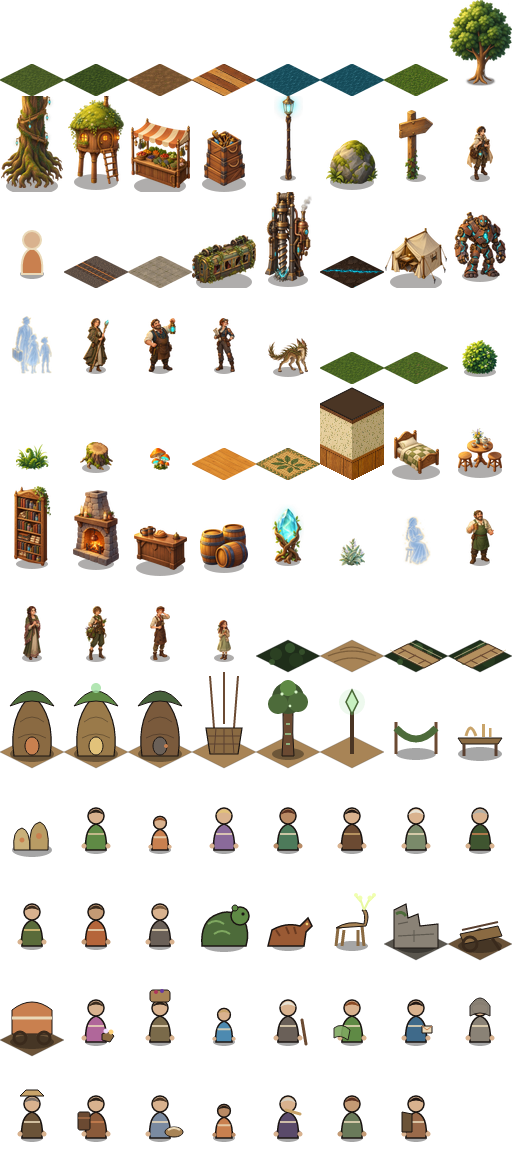
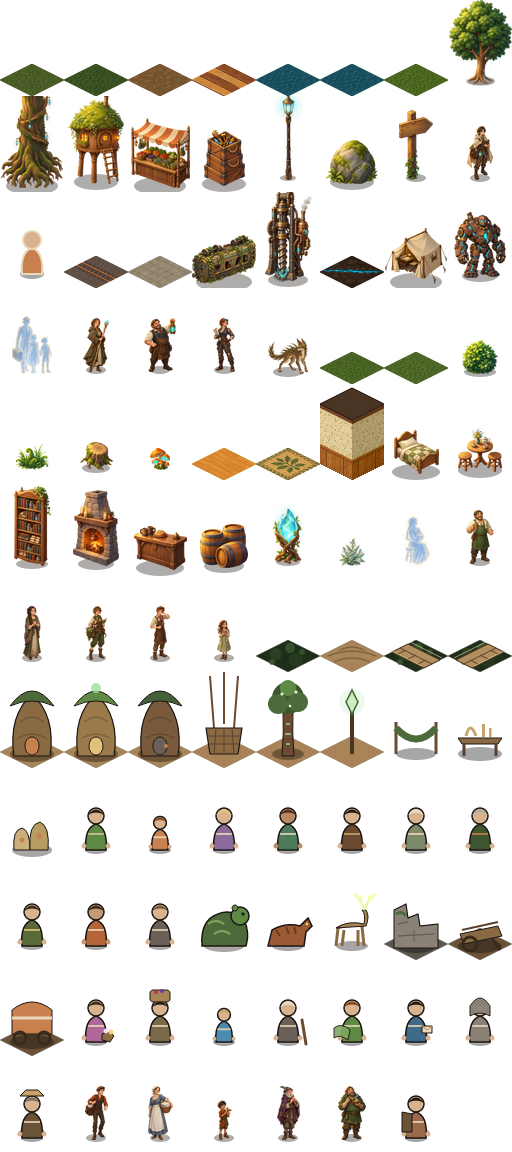
Passants de Gardebois peints : 5 personnages, 2 qui marchent animés
Cinq personnages en pied (commis de Ferros, garçon curieux, lavandière, joueur de
pipeau, client de la Racine) et les planches de marche des deux qui marchent
(méthode 2D validée), 7,5 crédits au total. Outil de marche : option de taille
(42 px pour l'enfant). Test : chaque planche de figurant existe. 270 tests.

Claude-Session: https://claude.ai/code/session_01SqW3qFHixh5S4ufZhtH5kU

diff --git a/src/engine/figurants.test.ts b/src/engine/figurants.test.ts
@@ -59,6 +59,14 @@ describe('figurants', () => {
     }
   });
 
+  it('point their painted walk sheets to files in public/ (docs/ASSETS.md)', () => {
+    const files = Object.keys(import.meta.glob('/public/sprites/*'));
+    for (const f of FIGURANTS.filter((x) => x.walk)) {
+      expect(files, f.id).toContain(`/public/${f.walk}`);
+      expect(isStanding(f), f.id).toBe(false);
+    }
+  });
+
   it('fill Gardebois and the three quarters of Canopéa', () => {
     for (const id of ['gardebois', 'canopee-nacelle', 'canopee-ramures', 'canopee-aieux']) {
       expect(figurantsAt(id).length, id).toBeGreaterThanOrEqual(2);

diff --git a/docs/ASSETS.md b/docs/ASSETS.md
@@ -311,7 +311,7 @@ d'un bloc de case, inclinées le long de ses arêtes, la face droite à l'ombre,
 **À trancher par Cyril** : Sylvan est sorti avec des oreilles pointues. Les elfes de Verdantis sont une contradiction
 ouverte du canon (`docs/univers/zones-floues.md`, point 2) ; le refaire en humain coûterait 2 crédits.
 
-## Passants de Gardebois (2026-11-02, 5 images, 2,5 crédits, solde 16,5) — **en attente de téléchargement**
+## Passants de Gardebois (2026-11-02, 15 images, 7,5 crédits, solde 11,5)
 
 Plan validé par Cyril le 2026-11-02 (« Oui, pas bête ») : peindre les cinq passants de Gardebois
 (`docs/gdd/figurants.md`) : 5 personnages en pied (2,5 crédits), puis les planches de marche des deux qui marchent
@@ -327,8 +327,18 @@ Plan validé par Cyril le 2026-11-02 (« Oui, pas bête ») : peindre les cinq p
 | `joueur-pipeau.png` | `joueur-pipeau` | « an old street musician of a forest village, short white beard, patched plum-purple cloak, a small soft hat with a green feather, playing a little wooden pipe flute held in both hands, gentle twinkling eyes » | `92e9308e-231a-44c2-9071-4351a0a9f4f4` | 0,5 |
 | `client.png` | `client` | « a sleepy, content inn patron of a forest village, plump middle-aged man, mossy green tunic and brown trousers, holding a steaming wooden bowl of soup and a wooden spoon, eyes half closed, peaceful smile » | `de4b76f0-dafd-40ab-bdc3-f15ef84e78f2` | 0,5 |
 
-**Blocage** : la session cloud ne peut pas télécharger les images (l'hôte `d8j0ntlcm91z4.cloudfront.net`, où Higgsfield
-les dépose, est refusé par la politique réseau de l'environnement). Les planches de marche (5 crédits) attendent
-que l'hôte soit autorisé, pour vérifier les personnages avant de payer la suite. Code prêt : tuiles déclarées avec
-`art` (`withArt` dans `scripts/tiles-def.mjs`), planches de marche des figurants (`walk` dans
-`src/data/figurants.json`, `FigurantLayer`).
+Téléchargement d'abord bloqué : l'hôte des images Higgsfield (`d8j0ntlcm91z4.cloudfront.net`) était refusé par le
+réseau de la session cloud ; Cyril a ouvert l'accès réseau de l'environnement (« Complet ») le 2026-11-02. Les cinq
+personnages, montrés à Cyril, lui plaisent ; tous gardés au premier essai.
+
+| Planches de marche (`assets/raw/anim2d/<nom>/{s,se,e,ne,n}.png`) | Réglages | Prompt | Coût |
+|---|---|---|---|
+| `commis-ferros` (5 directions) | moyenne, transparent, 21:9, le commis en pied en référence (`image_references`) | Prompt de la méthode 2D (`docs/gdd/animation.md`), tenue résumée entre parenthèses (casquette, gilet, chemise rouille, sacoche de papiers), « legs, arms and satchel moving » | 2,5 |
+| `garcon-curieux` (5 directions) | idem, le garçon en pied en référence | idem (cheveux en bataille, tunique rouille, ceinture verte, dragon de bois dans les mains), « legs, arms and sash moving » | 2,5 |
+
+Deux demandes refusées à l'envoi par Higgsfield (limite de débit, 429), sans tâche créée ni débit, relancées aussitôt.
+
+**Résultats** : `assets/tiles/{colporteur-ferros,enfant-b,lavandiere,joueur-pipeau,client}.png` (tuiles, `npm run art`) ;
+`public/sprites/figurant-commis-ferros.png` et `figurant-garcon-curieux.png` (8 directions × 6 images,
+`npm run walk -- 2d anim2d/<nom> figurant-<nom> [hauteur]` ; le garçon à 42 px au lieu de 54, c'est un enfant).
+Vérifié dans le jeu : les deux marcheurs animés dans Gardebois, les trois autres immobiles, bulle du client.

diff --git a/docs/JOURNAL.md b/docs/JOURNAL.md
@@ -3,7 +3,7 @@
 ## État (2026-11-02)
 
 - **Jalon 1 clos** (validé le 2026-11-01). **Jalon 2** fait et en ligne : avatars, marche 2D, combat sur grille,
-  4 intérieurs, 5 PNJ, 3 quêtes (`docs/gdd/jalon-2.md`). 16,5 crédits Higgsfield restants.
+  4 intérieurs, 5 PNJ, 3 quêtes (`docs/gdd/jalon-2.md`). 11,5 crédits Higgsfield restants.
 - 269 tests, typecheck et build au vert. En ligne : https://csaintecluque-ui.github.io/anamnesis-rpg/
 - Mode test caché : 5 touches sur la version (écran titre) → +50 Fers, PV au max dans le menu pause.
 
@@ -16,8 +16,8 @@
 
 ## Prochaine étape
 
-1. En ligne : 14 passants (`docs/gdd/figurants.md`). Peinture de ceux de Gardebois **bloquée** (2,5 crédits sur 7,5) :
-   l'hôte des images Higgsfield `d8j0ntlcm91z4.cloudfront.net` est refusé par le réseau de la session cloud.
+1. En ligne : 14 passants (`docs/gdd/figurants.md`), ceux de Gardebois peints (les deux qui marchent sont animés).
+   Accès réseau de l'environnement passé en « Complet » par Cyril (images Higgsfield).
 2. Ensuite : réputation par ville, puis Ironheart ; les quêtes des villes après.
 
 ## Points ouverts

diff --git a/docs/archive/journal-2026-11.md b/docs/archive/journal-2026-11.md
@@ -672,3 +672,7 @@ Le passage au jalon suivant attend le feu vert de Cyril (`CLAUDE.md` §4).
   passants de Gardebois accordée. Cinq personnages en pied générés (2,5 crédits, solde 16,5) ; téléchargement
   impossible depuis la session cloud (hôte des images Higgsfield refusé par le réseau) : planches de marche en attente.
   Code prêt : `withArt` (tuiles), `walk` (planche de marche d'un figurant), testé avec une planche d'avatar.
+- Cyril ouvre l'accès réseau de l'environnement (« Complet », depuis Safari : flèche du titre de session, « Modifier
+  l'environnement cloud »). Les cinq personnages lui plaisent. Planches de marche du commis et du garçon (10 images,
+  5 crédits, solde 11,5), assemblées (`npm run walk`, nouvelle option de taille : 42 px pour l'enfant) ; tuiles des
+  trois immobiles (`npm run art`). 270 tests ; vérifié dans le jeu. Mis en ligne.

diff --git a/docs/gdd/animation.md b/docs/gdd/animation.md
@@ -21,7 +21,7 @@ Pilote : la marche du héros faite de deux façons, comparées dans le jeu. **Ch
    e, ne, n (prompts exacts : `docs/ASSETS.md`).
 2. `npm run walk -- 2d <dossier> <nom>` découpe chaque rangée en 6 (coupe à la colonne la plus vide près de chaque
    limite attendue), met chaque direction à la même hauteur, aligne les pieds et le centre du buste, et crée nw, w, sw
-   en miroir de ne, e, se.
+   en miroir de ne, e, se. Un 4e argument donne la taille du personnage (54 px par défaut ; 42 pour un enfant).
 
 ## Méthode 3D (17 crédits pour le héros)
 

diff --git a/docs/gdd/figurants.md b/docs/gdd/figurants.md
@@ -39,7 +39,7 @@ Code : `src/scenes/Figurants.ts` (sur la carte), `src/rules/figurants.ts` ; donn
 
 Les textes complets sont dans `src/data/figurants.json`.
 
-## Images peintes (validé par Cyril le 2026-11-02 ; en cours : `docs/ASSETS.md`)
+## Images peintes (validé par Cyril le 2026-11-02 ; **fait** pour Gardebois : `docs/ASSETS.md`)
 
 Gardebois est déjà peint : ses cinq figurants (avec le client de l'auberge) y détonnent en provisoire. Proposition :
 les peindre avec la méthode 2D validée (`docs/gdd/animation.md`) : en pied 0,5 crédit, planche de marche 2,5 ;
